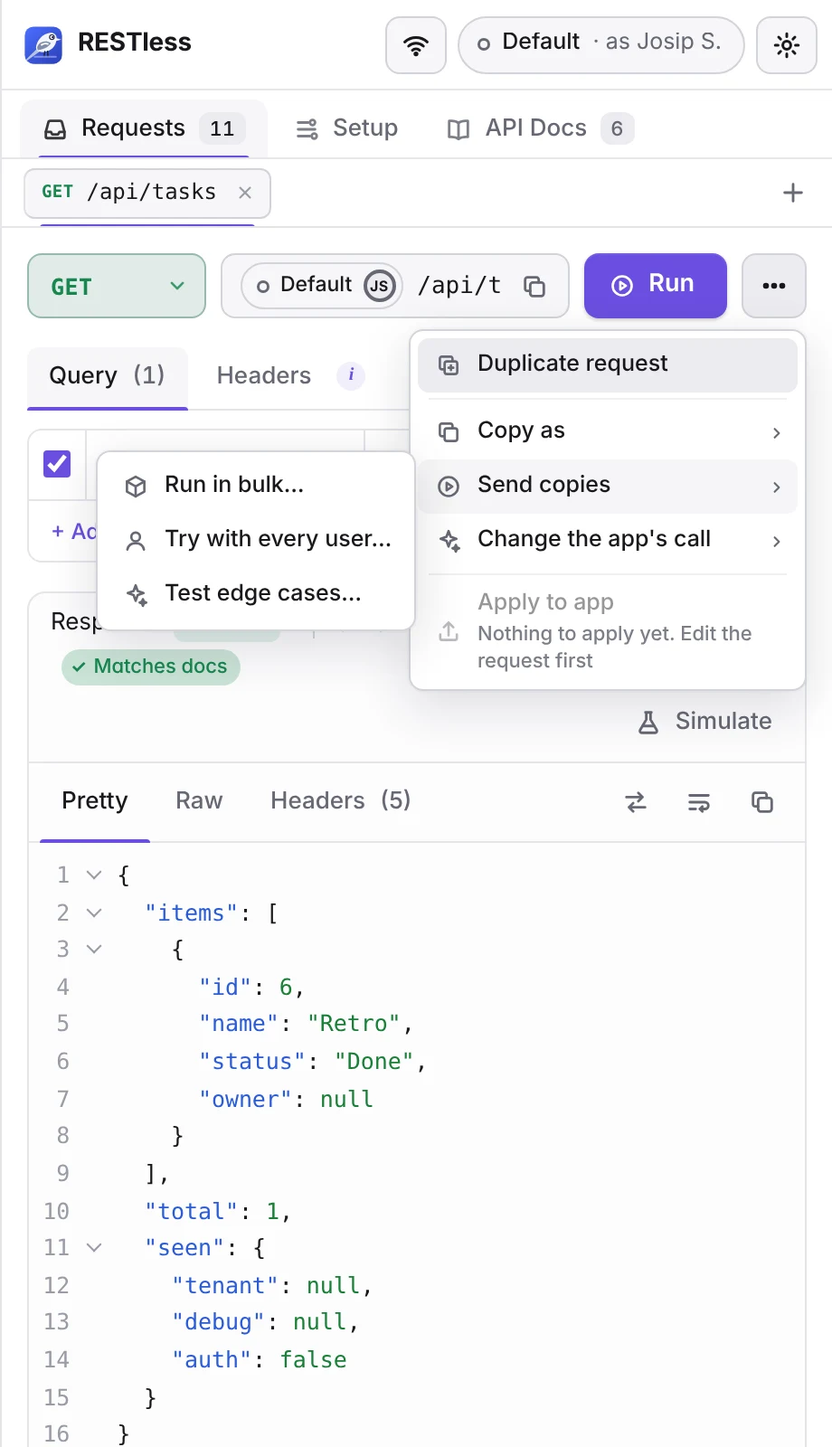
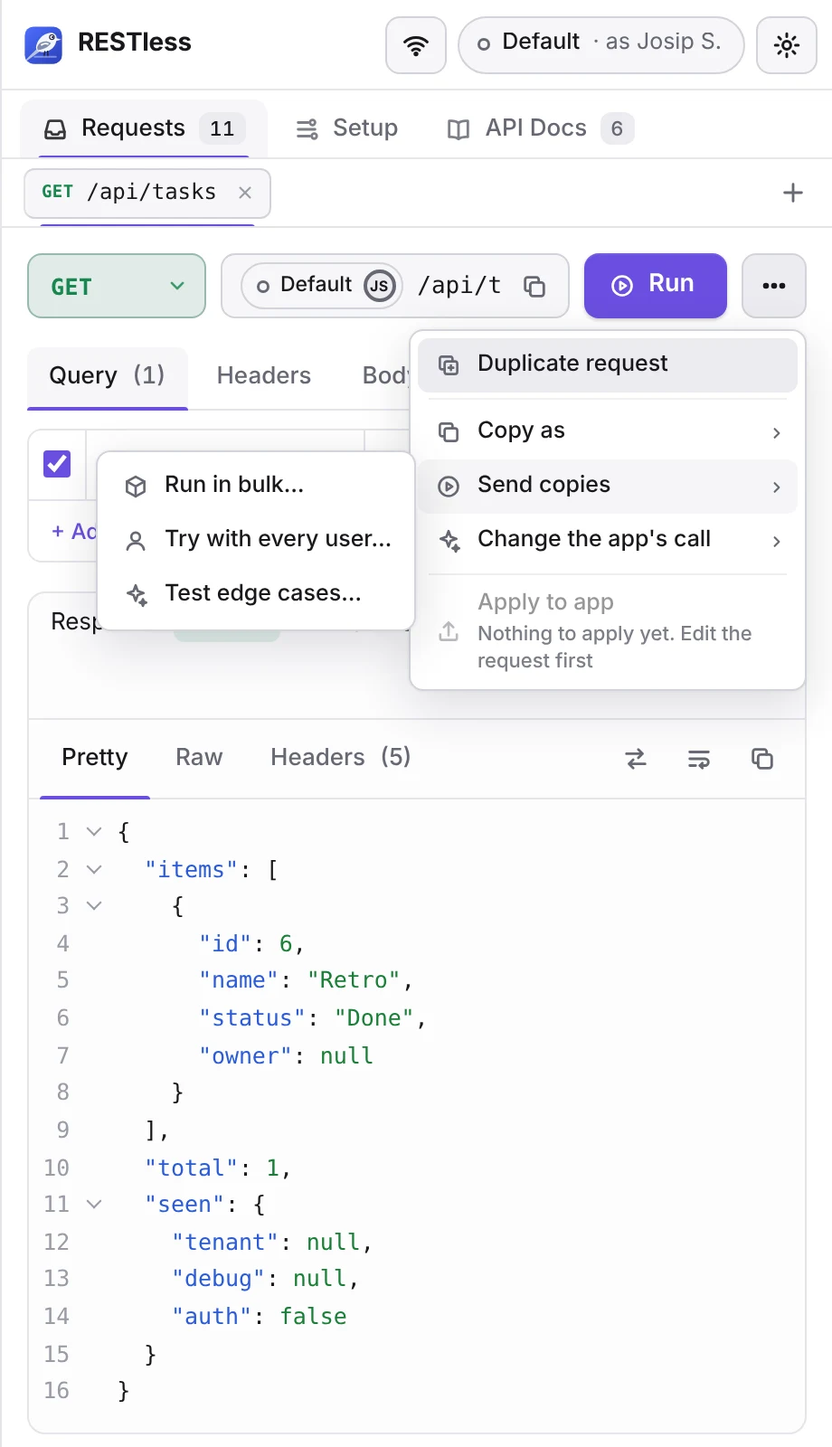
0.98.0 Quieter request screen: response line, error card, Headers note
- Headers tab: the always-on ⓘ is gone; its note is one line under the table.
- Error details: one visible button (Copy error); per-field copy shows on hover.
- Response line: dots only (no extra bars), no "now"; on narrow panels it keeps
  status and time on one row and Simulate becomes an icon.

Claude-Session: https://claude.ai/code/session_0117Ua1ahtmqBn2ueedTgDyf

diff --git a/docs/demo/index.html b/docs/demo/index.html
@@ -5016,6 +5016,19 @@
     .editbar .splitbtn > .newwrap > button.split-more, .editbar .splitbtn > .newwrap > button.split-more:hover { background: var(--accent-solid, var(--accent)); color: var(--on-accent, #fff); border: 0; border-left: 1px solid color-mix(in srgb, var(--on-accent, #fff) 30%, transparent); }
     .editbar .splitbtn > .newwrap > button.split-more:hover { filter: brightness(1.08); }
     .multimenu .msec[hidden] { display: none; }
+    /* response line: dots only, no bars */
+    .lowinfo .rq-m { padding-left: 0; border-left: 0; }
+    .hdr-note { margin: 8px 2px 0; font-size: 11.5px; color: var(--faint); line-height: 1.45; }
+    button.ibtn.hcopy { width: 24px; height: 24px; padding: 0; display: inline-grid; place-items: center; flex: none; opacity: 0; transition: opacity .1s; }
+    button.ibtn.hcopy svg { width: 13px; height: 13px; }
+    :hover > button.ibtn.hcopy, :focus-within > button.ibtn.hcopy, button.ibtn.hcopy:focus-visible { opacity: 1; }
+    @container rlmain (max-width: 420px) {
+      .lowinfo .fact + .fact + .fact { display: none; }
+      .lowhead .lowinfo { flex-wrap: nowrap; }
+    }
+    @container rlmain (max-width: 330px) {
+      .lowhead .simbtn .rvlabel { display: none; }
+    }
   `;
 
   // ---------- helpers
@@ -6983,12 +6996,14 @@
     return Object.entries(errors).slice(0, 100).map(([k, v]) => [k, Array.isArray(v) ? v.map((x) => (typeof x === 'string' ? x : JSON.stringify(x))) : [typeof v === 'string' ? v : JSON.stringify(v)]]);
   }
 
-  function copyChip(value, label = 'Copy') {
-    const b = h('button', { type: 'button', class: 'btn-sm', title: `Copy ${value}`, onclick: async (e) => {
+  // Copy icon for one value: shows on hover of its row (like the JSON line copy), so an error card has one visible Copy.
+  function copyChip(value) {
+    const b = h('button', { type: 'button', class: 'ibtn hcopy', 'aria-label': 'Copy value', title: `Copy ${value}`, onclick: async (e) => {
       e.stopPropagation();
-      try { await navigator.clipboard.writeText(String(value)); b.textContent = 'Copied'; } catch { b.textContent = 'Failed'; }
-      setTimeout(() => { b.textContent = label; }, 1200);
-    } }, label);
+      try { await navigator.clipboard.writeText(String(value)); setHTML(b, ICONS.check); b.title = 'Copied'; } catch { b.title = 'Copy failed'; }
+      setTimeout(() => { setHTML(b, ICONS.copy); b.title = `Copy ${value}`; }, 1200);
+    } });
+    setHTML(b, ICONS.copy);
     return b;
   }
 
@@ -8323,10 +8338,7 @@
         return h('button', { type: 'button', role: 'tab', 'aria-selected': String(d.tab === id), class: `tab${d.tab === id ? ' on' : ''}`, onclick: () => { d.tab = id; drawTabs(); drawPane(); drawBar(); } },
           label, n ? h('span', { class: 'tcount' }, `(${n})`) : null,
           id === 'body' && hasBody() && bodyText() != null ? h('span', { class: 'dot', title: 'This request has a body' }) : null,
-          id === 'headers' ? (() => {
-            const t = `${d.headersNote ? `${d.headersNote}\n\n` : ''}Only headers the app sets are shown. Cookies the browser adds itself can't be seen or changed here.`;
-            return h('span', { class: 'docind info', role: 'img', 'aria-label': t, title: t }, 'i');
-          })() : null);
+          null);
       }), h('span', { class: 'hspace' }), tabTools);
       drawLowerHead();
     }
@@ -8351,13 +8363,11 @@
       const isRun = !!(r && d.copy && r === d.copy);
       const ms = isRun ? r.ms : entry.durationMs;
       const size = isRun ? new Blob([r.text || '']).size : entry.responseSize;
-      const at = isRun ? (r.at || d.copyAt) : entry.startedAt;
       const sep = () => h('span', { class: 'sdot' }, '·');
       const facts = [
         r && r.status != null ? h('span', { class: `sb ${statusTone(r.status)}`, title: prob?.title || STATUS_LABEL[r.status] || '' }, statusText(r.status)) : null,
         ms != null && r ? h('span', { class: 'rq-m', title: isRun ? 'Time of your Run' : 'Time the app\'s call took' }, fmtDur(ms)) : null,
         size && r ? h('span', { class: 'rq-m', title: isRun ? 'Size of your Run\'s response' : 'Size of the response' }, fmtSize(size)) : null,
-        at && r ? h('span', { class: 'rq-m faint', title: new Date(at).toLocaleString() }, fmtAgo(at)) : null,
       ].filter(Boolean);
       // Entry to the Simulation card, when it's closed (it's always open while a simulation is set up).
       const simBtn = d.lower !== 'simulate' && !entry.manual && !entry.paused ? (() => {
@@ -8634,7 +8644,8 @@
                 copyBtn('copy', 'Copy value', () => p[1]),
               ],
             }),
-            warn);
+            warn,
+            h('p', { class: 'hdr-note' }, d.headersNote ? `${d.headersNote} ` : '', 'Only headers the app sets are shown. Cookies the browser adds can\'t be seen or changed here.'));
         }
         checkNames();
       };

diff --git a/ui.js b/ui.js
@@ -3164,6 +3164,19 @@
     .editbar .splitbtn > .newwrap > button.split-more, .editbar .splitbtn > .newwrap > button.split-more:hover { background: var(--accent-solid, var(--accent)); color: var(--on-accent, #fff); border: 0; border-left: 1px solid color-mix(in srgb, var(--on-accent, #fff) 30%, transparent); }
     .editbar .splitbtn > .newwrap > button.split-more:hover { filter: brightness(1.08); }
     .multimenu .msec[hidden] { display: none; }
+    /* response line: dots only, no bars */
+    .lowinfo .rq-m { padding-left: 0; border-left: 0; }
+    .hdr-note { margin: 8px 2px 0; font-size: 11.5px; color: var(--faint); line-height: 1.45; }
+    button.ibtn.hcopy { width: 24px; height: 24px; padding: 0; display: inline-grid; place-items: center; flex: none; opacity: 0; transition: opacity .1s; }
+    button.ibtn.hcopy svg { width: 13px; height: 13px; }
+    :hover > button.ibtn.hcopy, :focus-within > button.ibtn.hcopy, button.ibtn.hcopy:focus-visible { opacity: 1; }
+    @container rlmain (max-width: 420px) {
+      .lowinfo .fact + .fact + .fact { display: none; }
+      .lowhead .lowinfo { flex-wrap: nowrap; }
+    }
+    @container rlmain (max-width: 330px) {
+      .lowhead .simbtn .rvlabel { display: none; }
+    }
   `;
 
   // ---------- helpers
@@ -5131,12 +5144,14 @@
     return Object.entries(errors).slice(0, 100).map(([k, v]) => [k, Array.isArray(v) ? v.map((x) => (typeof x === 'string' ? x : JSON.stringify(x))) : [typeof v === 'string' ? v : JSON.stringify(v)]]);
   }
 
-  function copyChip(value, label = 'Copy') {
-    const b = h('button', { type: 'button', class: 'btn-sm', title: `Copy ${value}`, onclick: async (e) => {
+  // Copy icon for one value: shows on hover of its row (like the JSON line copy), so an error card has one visible Copy.
+  function copyChip(value) {
+    const b = h('button', { type: 'button', class: 'ibtn hcopy', 'aria-label': 'Copy value', title: `Copy ${value}`, onclick: async (e) => {
       e.stopPropagation();
-      try { await navigator.clipboard.writeText(String(value)); b.textContent = 'Copied'; } catch { b.textContent = 'Failed'; }
-      setTimeout(() => { b.textContent = label; }, 1200);
-    } }, label);
+      try { await navigator.clipboard.writeText(String(value)); setHTML(b, ICONS.check); b.title = 'Copied'; } catch { b.title = 'Copy failed'; }
+      setTimeout(() => { setHTML(b, ICONS.copy); b.title = `Copy ${value}`; }, 1200);
+    } });
+    setHTML(b, ICONS.copy);
     return b;
   }
 
@@ -6471,10 +6486,7 @@
         return h('button', { type: 'button', role: 'tab', 'aria-selected': String(d.tab === id), class: `tab${d.tab === id ? ' on' : ''}`, onclick: () => { d.tab = id; drawTabs(); drawPane(); drawBar(); } },
           label, n ? h('span', { class: 'tcount' }, `(${n})`) : null,
           id === 'body' && hasBody() && bodyText() != null ? h('span', { class: 'dot', title: 'This request has a body' }) : null,
-          id === 'headers' ? (() => {
-            const t = `${d.headersNote ? `${d.headersNote}\n\n` : ''}Only headers the app sets are shown. Cookies the browser adds itself can't be seen or changed here.`;
-            return h('span', { class: 'docind info', role: 'img', 'aria-label': t, title: t }, 'i');
-          })() : null);
+          null);
       }), h('span', { class: 'hspace' }), tabTools);
       drawLowerHead();
     }
@@ -6499,13 +6511,11 @@
       const isRun = !!(r && d.copy && r === d.copy);
       const ms = isRun ? r.ms : entry.durationMs;
       const size = isRun ? new Blob([r.text || '']).size : entry.responseSize;
-      const at = isRun ? (r.at || d.copyAt) : entry.startedAt;
       const sep = () => h('span', { class: 'sdot' }, '·');
       const facts = [
         r && r.status != null ? h('span', { class: `sb ${statusTone(r.status)}`, title: prob?.title || STATUS_LABEL[r.status] || '' }, statusText(r.status)) : null,
         ms != null && r ? h('span', { class: 'rq-m', title: isRun ? 'Time of your Run' : 'Time the app\'s call took' }, fmtDur(ms)) : null,
         size && r ? h('span', { class: 'rq-m', title: isRun ? 'Size of your Run\'s response' : 'Size of the response' }, fmtSize(size)) : null,
-        at && r ? h('span', { class: 'rq-m faint', title: new Date(at).toLocaleString() }, fmtAgo(at)) : null,
       ].filter(Boolean);
       // Entry to the Simulation card, when it's closed (it's always open while a simulation is set up).
       const simBtn = d.lower !== 'simulate' && !entry.manual && !entry.paused ? (() => {
@@ -6782,7 +6792,8 @@
                 copyBtn('copy', 'Copy value', () => p[1]),
               ],
             }),
-            warn);
+            warn,
+            h('p', { class: 'hdr-note' }, d.headersNote ? `${d.headersNote} ` : '', 'Only headers the app sets are shown. Cookies the browser adds can\'t be seen or changed here.'));
         }
         checkNames();
       };

diff --git a/docs/request-screen.html b/docs/request-screen.html
@@ -5,7 +5,7 @@
 <script>try{const t=localStorage.getItem('rl-theme');if(t)document.documentElement.classList.add(t)}catch(e){}</script>
 </head><body>
 <header class="top"><button class="tbtn menu" id="mbtn" aria-expanded="false" aria-controls="side" aria-label="Pages">☰</button>
-<a class="brand" href="index.html"><img src="img/logo.png" alt=""><b>RESTless</b></a><span class="ver">v0.97.0</span><span class="sp"></span>
+<a class="brand" href="index.html"><img src="img/logo.png" alt=""><b>RESTless</b></a><span class="ver">v0.98.0</span><span class="sp"></span>
 <a class="tlink" href="demo/index.html">Live demo</a><a class="tlink" href="https://github.com/varnica95/restless">GitHub</a>
 <button class="tbtn" id="theme" aria-label="Switch between light and dark" title="Light / dark"><svg width="16" height="16" viewBox="0 0 16 16" aria-hidden="true"><circle cx="8" cy="8" r="6.2" fill="none" stroke="currentColor" stroke-width="1.5"/><path d="M8 1.8a6.2 6.2 0 0 1 0 12.4z" fill="currentColor"/></svg></button></header>
 <div class="wrap"><nav class="side" id="side" aria-label="Pages"><ul><li><a href="index.html">Overview</a></li><li><a href="getting-started.html">Getting started</a></li><li><a href="requests.html">Requests</a></li><li><a href="request-screen.html" class=on aria-current=page>The request screen</a></li><li><a href="mocks.html">Mock endpoints</a></li><li><a href="api-docs.html">API docs</a></li><li><a href="environments.html">Environments &amp; users</a></li><li><a href="variables.html">Variables</a></li><li><a href="testing-tools.html">Testing tools</a></li><li><a href="settings.html">Settings</a></li><li><a href="how-it-works.html">How it works</a></li><li><a href="demo/index.html">Live demo</a></li></ul></nav>
@@ -26,6 +26,6 @@
 <h2 id="pause-a-call">Pause a call</h2>
 <p><strong>⋯ → Change the app's call → Break on next call.</strong> When the app makes it, the call waits for you: <strong>Continue</strong> (with your edits), <strong>Send unchanged</strong> or <strong>Drop</strong>.</p>
 <h2 id="also-in">Also in ⋯</h2>
-<p><strong>Copy as</strong> cURL, fetch or TypeScript · <strong>Duplicate</strong> · <strong>Run in bulk</strong> · <strong>Try with every user</strong> · <strong>Test edge cases</strong></p><nav class="pn" aria-label="Previous and next"><a class="prev" href="requests.html"><span>Previous</span>Requests</a><a class="next" href="mocks.html"><span>Next</span>Mock endpoints</a></nav><footer>RESTless v0.97.0 · <a href="https://github.com/varnica95/restless">GitHub</a></footer></main>
+<p><strong>Copy as</strong> cURL, fetch or TypeScript · <strong>Duplicate</strong> · <strong>Run in bulk</strong> · <strong>Try with every user</strong> · <strong>Test edge cases</strong></p><nav class="pn" aria-label="Previous and next"><a class="prev" href="requests.html"><span>Previous</span>Requests</a><a class="next" href="mocks.html"><span>Next</span>Mock endpoints</a></nav><footer>RESTless v0.98.0 · <a href="https://github.com/varnica95/restless">GitHub</a></footer></main>
 <aside class="toc" aria-label="On this page"><b>On this page</b><ul><li><a href="#edit-and-run">Edit and run</a></li><li><a href="#compare">Compare</a></li><li><a href="#simulate">Simulate</a></li><li><a href="#pause-a-call">Pause a call</a></li><li><a href="#also-in">Also in ⋯</a></li></ul></aside></div>
 <script src="site.js"></script></body></html>

diff --git a/docs/api-docs.html b/docs/api-docs.html
@@ -5,7 +5,7 @@
 <script>try{const t=localStorage.getItem('rl-theme');if(t)document.documentElement.classList.add(t)}catch(e){}</script>
 </head><body>
 <header class="top"><button class="tbtn menu" id="mbtn" aria-expanded="false" aria-controls="side" aria-label="Pages">☰</button>
-<a class="brand" href="index.html"><img src="img/logo.png" alt=""><b>RESTless</b></a><span class="ver">v0.97.0</span><span class="sp"></span>
+<a class="brand" href="index.html"><img src="img/logo.png" alt=""><b>RESTless</b></a><span class="ver">v0.98.0</span><span class="sp"></span>
 <a class="tlink" href="demo/index.html">Live demo</a><a class="tlink" href="https://github.com/varnica95/restless">GitHub</a>
 <button class="tbtn" id="theme" aria-label="Switch between light and dark" title="Light / dark"><svg width="16" height="16" viewBox="0 0 16 16" aria-hidden="true"><circle cx="8" cy="8" r="6.2" fill="none" stroke="currentColor" stroke-width="1.5"/><path d="M8 1.8a6.2 6.2 0 0 1 0 12.4z" fill="currentColor"/></svg></button></header>
 <div class="wrap"><nav class="side" id="side" aria-label="Pages"><ul><li><a href="index.html">Overview</a></li><li><a href="getting-started.html">Getting started</a></li><li><a href="requests.html">Requests</a></li><li><a href="request-screen.html">The request screen</a></li><li><a href="mocks.html">Mock endpoints</a></li><li><a href="api-docs.html" class=on aria-current=page>API docs</a></li><li><a href="environments.html">Environments &amp; users</a></li><li><a href="variables.html">Variables</a></li><li><a href="testing-tools.html">Testing tools</a></li><li><a href="settings.html">Settings</a></li><li><a href="how-it-works.html">How it works</a></li><li><a href="demo/index.html">Live demo</a></li></ul></nav>
@@ -21,6 +21,6 @@
 <li>Each endpoint shows whether the app has called it. Filter by <strong>called</strong> or <strong>not called</strong> to find what’s unused.</li>
 <li>When the docs at your URL change, a note says <strong>a new version is available</strong>. Press <strong>Refresh</strong> to load it.</li>
 <li><strong>⋯ → Reload</strong> shows <strong>What changed</strong>: new, removed and changed endpoints, with the changes that can break your app marked.</li>
-</ul><nav class="pn" aria-label="Previous and next"><a class="prev" href="mocks.html"><span>Previous</span>Mock endpoints</a><a class="next" href="environments.html"><span>Next</span>Environments &amp; users</a></nav><footer>RESTless v0.97.0 · <a href="https://github.com/varnica95/restless">GitHub</a></footer></main>
+</ul><nav class="pn" aria-label="Previous and next"><a class="prev" href="mocks.html"><span>Previous</span>Mock endpoints</a><a class="next" href="environments.html"><span>Next</span>Environments &amp; users</a></nav><footer>RESTless v0.98.0 · <a href="https://github.com/varnica95/restless">GitHub</a></footer></main>
 <aside class="toc" aria-label="On this page"><b>On this page</b><ul><li><a href="#load-your-docs">Load your docs</a></li><li><a href="#try-an-endpoint">Try an endpoint</a></li><li><a href="#check-against-the-docs">Check against the docs</a></li></ul></aside></div>
 <script src="site.js"></script></body></html>

diff --git a/docs/settings.html b/docs/settings.html
@@ -5,7 +5,7 @@
 <script>try{const t=localStorage.getItem('rl-theme');if(t)document.documentElement.classList.add(t)}catch(e){}</script>
 </head><body>
 <header class="top"><button class="tbtn menu" id="mbtn" aria-expanded="false" aria-controls="side" aria-label="Pages">☰</button>
-<a class="brand" href="index.html"><img src="img/logo.png" alt=""><b>RESTless</b></a><span class="ver">v0.97.0</span><span class="sp"></span>
+<a class="brand" href="index.html"><img src="img/logo.png" alt=""><b>RESTless</b></a><span class="ver">v0.98.0</span><span class="sp"></span>
 <a class="tlink" href="demo/index.html">Live demo</a><a class="tlink" href="https://github.com/varnica95/restless">GitHub</a>
 <button class="tbtn" id="theme" aria-label="Switch between light and dark" title="Light / dark"><svg width="16" height="16" viewBox="0 0 16 16" aria-hidden="true"><circle cx="8" cy="8" r="6.2" fill="none" stroke="currentColor" stroke-width="1.5"/><path d="M8 1.8a6.2 6.2 0 0 1 0 12.4z" fill="currentColor"/></svg></button></header>
 <div class="wrap"><nav class="side" id="side" aria-label="Pages"><ul><li><a href="index.html">Overview</a></li><li><a href="getting-started.html">Getting started</a></li><li><a href="requests.html">Requests</a></li><li><a href="request-screen.html">The request screen</a></li><li><a href="mocks.html">Mock endpoints</a></li><li><a href="api-docs.html">API docs</a></li><li><a href="environments.html">Environments &amp; users</a></li><li><a href="variables.html">Variables</a></li><li><a href="testing-tools.html">Testing tools</a></li><li><a href="settings.html" class=on aria-current=page>Settings</a></li><li><a href="how-it-works.html">How it works</a></li><li><a href="demo/index.html">Live demo</a></li></ul></nav>
@@ -19,6 +19,6 @@
 <p><strong>Export…</strong> saves your environments and users, rules, mocks, API docs and pinned endpoints as one JSON file. <strong>Import…</strong> brings them back here or in another browser, and can be undone.</p>
 <blockquote>
 <p><strong>Careful:</strong> tokens are in the file when <strong>Include tokens</strong> is on. Share it only with people who should have them.</p>
-</blockquote><nav class="pn" aria-label="Previous and next"><a class="prev" href="testing-tools.html"><span>Previous</span>Testing tools</a><a class="next" href="how-it-works.html"><span>Next</span>How it works</a></nav><footer>RESTless v0.97.0 · <a href="https://github.com/varnica95/restless">GitHub</a></footer></main>
+</blockquote><nav class="pn" aria-label="Previous and next"><a class="prev" href="testing-tools.html"><span>Previous</span>Testing tools</a><a class="next" href="how-it-works.html"><span>Next</span>How it works</a></nav><footer>RESTless v0.98.0 · <a href="https://github.com/varnica95/restless">GitHub</a></footer></main>
 <aside class="toc" aria-label="On this page"><b>On this page</b><ul><li><a href="#look-and-feel">Look and feel</a></li><li><a href="#shortcut">Shortcut</a></li><li><a href="#import-export">Import &amp; export</a></li></ul></aside></div>
 <script src="site.js"></script></body></html>

diff --git a/docs/getting-started.html b/docs/getting-started.html
@@ -5,7 +5,7 @@
 <script>try{const t=localStorage.getItem('rl-theme');if(t)document.documentElement.classList.add(t)}catch(e){}</script>
 </head><body>
 <header class="top"><button class="tbtn menu" id="mbtn" aria-expanded="false" aria-controls="side" aria-label="Pages">☰</button>
-<a class="brand" href="index.html"><img src="img/logo.png" alt=""><b>RESTless</b></a><span class="ver">v0.97.0</span><span class="sp"></span>
+<a class="brand" href="index.html"><img src="img/logo.png" alt=""><b>RESTless</b></a><span class="ver">v0.98.0</span><span class="sp"></span>
 <a class="tlink" href="demo/index.html">Live demo</a><a class="tlink" href="https://github.com/varnica95/restless">GitHub</a>
 <button class="tbtn" id="theme" aria-label="Switch between light and dark" title="Light / dark"><svg width="16" height="16" viewBox="0 0 16 16" aria-hidden="true"><circle cx="8" cy="8" r="6.2" fill="none" stroke="currentColor" stroke-width="1.5"/><path d="M8 1.8a6.2 6.2 0 0 1 0 12.4z" fill="currentColor"/></svg></button></header>
 <div class="wrap"><nav class="side" id="side" aria-label="Pages"><ul><li><a href="index.html">Overview</a></li><li><a href="getting-started.html" class=on aria-current=page>Getting started</a></li><li><a href="requests.html">Requests</a></li><li><a href="request-screen.html">The request screen</a></li><li><a href="mocks.html">Mock endpoints</a></li><li><a href="api-docs.html">API docs</a></li><li><a href="environments.html">Environments &amp; users</a></li><li><a href="variables.html">Variables</a></li><li><a href="testing-tools.html">Testing tools</a></li><li><a href="settings.html">Settings</a></li><li><a href="how-it-works.html">How it works</a></li><li><a href="demo/index.html">Live demo</a></li></ul></nav>
@@ -32,6 +32,6 @@
 <p>In the header: where your requests go (<strong>Send to / Send as</strong>), the <strong>Offline</strong> switch and <strong>Settings</strong>.</p>
 <blockquote>
 <p><strong>Tip:</strong> <kbd>Ctrl</kbd>+click a button or table in your app (or right-click → <strong>Inspect API call</strong>) to jump straight to the call behind it.</p>
-</blockquote><nav class="pn" aria-label="Previous and next"><a class="prev" href="index.html"><span>Previous</span>Overview</a><a class="next" href="requests.html"><span>Next</span>Requests</a></nav><footer>RESTless v0.97.0 · <a href="https://github.com/varnica95/restless">GitHub</a></footer></main>
+</blockquote><nav class="pn" aria-label="Previous and next"><a class="prev" href="index.html"><span>Previous</span>Overview</a><a class="next" href="requests.html"><span>Next</span>Requests</a></nav><footer>RESTless v0.98.0 · <a href="https://github.com/varnica95/restless">GitHub</a></footer></main>
 <aside class="toc" aria-label="On this page"><b>On this page</b><ul><li><a href="#install">Install</a></li><li><a href="#open-the-panel">Open the panel</a></li><li><a href="#turn-on-recording">Turn on recording</a></li><li><a href="#find-your-way">Find your way</a></li></ul></aside></div>
 <script src="site.js"></script></body></html>

diff --git a/docs/variables.html b/docs/variables.html
@@ -5,7 +5,7 @@
 <script>try{const t=localStorage.getItem('rl-theme');if(t)document.documentElement.classList.add(t)}catch(e){}</script>
 </head><body>
 <header class="top"><button class="tbtn menu" id="mbtn" aria-expanded="false" aria-controls="side" aria-label="Pages">☰</button>
-<a class="brand" href="index.html"><img src="img/logo.png" alt=""><b>RESTless</b></a><span class="ver">v0.97.0</span><span class="sp"></span>
+<a class="brand" href="index.html"><img src="img/logo.png" alt=""><b>RESTless</b></a><span class="ver">v0.98.0</span><span class="sp"></span>
 <a class="tlink" href="demo/index.html">Live demo</a><a class="tlink" href="https://github.com/varnica95/restless">GitHub</a>
 <button class="tbtn" id="theme" aria-label="Switch between light and dark" title="Light / dark"><svg width="16" height="16" viewBox="0 0 16 16" aria-hidden="true"><circle cx="8" cy="8" r="6.2" fill="none" stroke="currentColor" stroke-width="1.5"/><path d="M8 1.8a6.2 6.2 0 0 1 0 12.4z" fill="currentColor"/></svg></button></header>
 <div class="wrap"><nav class="side" id="side" aria-label="Pages"><ul><li><a href="index.html">Overview</a></li><li><a href="getting-started.html">Getting started</a></li><li><a href="requests.html">Requests</a></li><li><a href="request-screen.html">The request screen</a></li><li><a href="mocks.html">Mock endpoints</a></li><li><a href="api-docs.html">API docs</a></li><li><a href="environments.html">Environments &amp; users</a></li><li><a href="variables.html" class=on aria-current=page>Variables</a></li><li><a href="testing-tools.html">Testing tools</a></li><li><a href="settings.html">Settings</a></li><li><a href="how-it-works.html">How it works</a></li><li><a href="demo/index.html">Live demo</a></li></ul></nav>
@@ -29,6 +29,6 @@
 <p>With <strong>Update from every response</strong> on, the variable follows that endpoint: your runs and the app's own calls keep it current.</p>
 <blockquote>
 <p><strong>Good to know:</strong> variables are saved for this site and included in <strong>Settings → Export</strong>.</p>
-</blockquote><nav class="pn" aria-label="Previous and next"><a class="prev" href="environments.html"><span>Previous</span>Environments &amp; users</a><a class="next" href="testing-tools.html"><span>Next</span>Testing tools</a></nav><footer>RESTless v0.97.0 · <a href="https://github.com/varnica95/restless">GitHub</a></footer></main>
+</blockquote><nav class="pn" aria-label="Previous and next"><a class="prev" href="environments.html"><span>Previous</span>Environments &amp; users</a><a class="next" href="testing-tools.html"><span>Next</span>Testing tools</a></nav><footer>RESTless v0.98.0 · <a href="https://github.com/varnica95/restless">GitHub</a></footer></main>
 <aside class="toc" aria-label="On this page"><b>On this page</b><ul><li><a href="#use-a-variable">Use a variable</a></li><li><a href="#manage-them">Manage them</a></li><li><a href="#chain-requests">Chain requests</a></li></ul></aside></div>
 <script src="site.js"></script></body></html>

diff --git a/docs/how-it-works.html b/docs/how-it-works.html
@@ -5,7 +5,7 @@
 <script>try{const t=localStorage.getItem('rl-theme');if(t)document.documentElement.classList.add(t)}catch(e){}</script>
 </head><body>
 <header class="top"><button class="tbtn menu" id="mbtn" aria-expanded="false" aria-controls="side" aria-label="Pages">☰</button>
-<a class="brand" href="index.html"><img src="img/logo.png" alt=""><b>RESTless</b></a><span class="ver">v0.97.0</span><span class="sp"></span>
+<a class="brand" href="index.html"><img src="img/logo.png" alt=""><b>RESTless</b></a><span class="ver">v0.98.0</span><span class="sp"></span>
 <a class="tlink" href="demo/index.html">Live demo</a><a class="tlink" href="https://github.com/varnica95/restless">GitHub</a>
 <button class="tbtn" id="theme" aria-label="Switch between light and dark" title="Light / dark"><svg width="16" height="16" viewBox="0 0 16 16" aria-hidden="true"><circle cx="8" cy="8" r="6.2" fill="none" stroke="currentColor" stroke-width="1.5"/><path d="M8 1.8a6.2 6.2 0 0 1 0 12.4z" fill="currentColor"/></svg></button></header>
 <div class="wrap"><nav class="side" id="side" aria-label="Pages"><ul><li><a href="index.html">Overview</a></li><li><a href="getting-started.html">Getting started</a></li><li><a href="requests.html">Requests</a></li><li><a href="request-screen.html">The request screen</a></li><li><a href="mocks.html">Mock endpoints</a></li><li><a href="api-docs.html">API docs</a></li><li><a href="environments.html">Environments &amp; users</a></li><li><a href="variables.html">Variables</a></li><li><a href="testing-tools.html">Testing tools</a></li><li><a href="settings.html">Settings</a></li><li><a href="how-it-works.html" class=on aria-current=page>How it works</a></li><li><a href="demo/index.html">Live demo</a></li></ul></nav>
@@ -19,6 +19,6 @@
 <li><strong>Apply to app</strong> repeats the click that made the call, so that button must have been clicked once on the page. Otherwise it reloads the page.</li>
 <li>Another server must allow calls from your app’s page (CORS).</li>
 <li>Mocks and simulations only apply in your browser while RESTless is on.</li>
-</ul><nav class="pn" aria-label="Previous and next"><a class="prev" href="settings.html"><span>Previous</span>Settings</a><a class="next" href="demo/index.html"><span>Next</span>Live demo</a></nav><footer>RESTless v0.97.0 · <a href="https://github.com/varnica95/restless">GitHub</a></footer></main>
+</ul><nav class="pn" aria-label="Previous and next"><a class="prev" href="settings.html"><span>Previous</span>Settings</a><a class="next" href="demo/index.html"><span>Next</span>Live demo</a></nav><footer>RESTless v0.98.0 · <a href="https://github.com/varnica95/restless">GitHub</a></footer></main>
 <aside class="toc" aria-label="On this page"><b>On this page</b><ul><li><a href="#in-your-browser-only">In your browser only</a></li><li><a href="#what-it-stores">What it stores</a></li><li><a href="#limits">Limits</a></li></ul></aside></div>
 <script src="site.js"></script></body></html>

diff --git a/docs/mocks.html b/docs/mocks.html
@@ -5,7 +5,7 @@
 <script>try{const t=localStorage.getItem('rl-theme');if(t)document.documentElement.classList.add(t)}catch(e){}</script>
 </head><body>
 <header class="top"><button class="tbtn menu" id="mbtn" aria-expanded="false" aria-controls="side" aria-label="Pages">☰</button>
-<a class="brand" href="index.html"><img src="img/logo.png" alt=""><b>RESTless</b></a><span class="ver">v0.97.0</span><span class="sp"></span>
+<a class="brand" href="index.html"><img src="img/logo.png" alt=""><b>RESTless</b></a><span class="ver">v0.98.0</span><span class="sp"></span>
 <a class="tlink" href="demo/index.html">Live demo</a><a class="tlink" href="https://github.com/varnica95/restless">GitHub</a>
 <button class="tbtn" id="theme" aria-label="Switch between light and dark" title="Light / dark"><svg width="16" height="16" viewBox="0 0 16 16" aria-hidden="true"><circle cx="8" cy="8" r="6.2" fill="none" stroke="currentColor" stroke-width="1.5"/><path d="M8 1.8a6.2 6.2 0 0 1 0 12.4z" fill="currentColor"/></svg></button></header>
 <div class="wrap"><nav class="side" id="side" aria-label="Pages"><ul><li><a href="index.html">Overview</a></li><li><a href="getting-started.html">Getting started</a></li><li><a href="requests.html">Requests</a></li><li><a href="request-screen.html">The request screen</a></li><li><a href="mocks.html" class=on aria-current=page>Mock endpoints</a></li><li><a href="api-docs.html">API docs</a></li><li><a href="environments.html">Environments &amp; users</a></li><li><a href="variables.html">Variables</a></li><li><a href="testing-tools.html">Testing tools</a></li><li><a href="settings.html">Settings</a></li><li><a href="how-it-works.html">How it works</a></li><li><a href="demo/index.html">Live demo</a></li></ul></nav>
@@ -25,6 +25,6 @@
 <p>Calls answered by a mock show a <strong>Changed</strong> tag. Click it to edit the mock.</p>
 <blockquote>
 <p><strong>Good to know:</strong> mocks work in your browser while RESTless is on. Other browsers, servers and tools like Postman still reach the real API.</p>
-</blockquote><nav class="pn" aria-label="Previous and next"><a class="prev" href="request-screen.html"><span>Previous</span>The request screen</a><a class="next" href="api-docs.html"><span>Next</span>API docs</a></nav><footer>RESTless v0.97.0 · <a href="https://github.com/varnica95/restless">GitHub</a></footer></main>
+</blockquote><nav class="pn" aria-label="Previous and next"><a class="prev" href="request-screen.html"><span>Previous</span>The request screen</a><a class="next" href="api-docs.html"><span>Next</span>API docs</a></nav><footer>RESTless v0.98.0 · <a href="https://github.com/varnica95/restless">GitHub</a></footer></main>
 <aside class="toc" aria-label="On this page"><b>On this page</b><ul><li><a href="#create-a-mock">Create a mock</a></li><li><a href="#use-path-values">Use path values</a></li><li><a href="#manage-mocks">Manage mocks</a></li></ul></aside></div>
 <script src="site.js"></script></body></html>

diff --git a/docs/environments.html b/docs/environments.html
@@ -5,7 +5,7 @@
 <script>try{const t=localStorage.getItem('rl-theme');if(t)document.documentElement.classList.add(t)}catch(e){}</script>
 </head><body>
 <header class="top"><button class="tbtn menu" id="mbtn" aria-expanded="false" aria-controls="side" aria-label="Pages">☰</button>
-<a class="brand" href="index.html"><img src="img/logo.png" alt=""><b>RESTless</b></a><span class="ver">v0.97.0</span><span class="sp"></span>
+<a class="brand" href="index.html"><img src="img/logo.png" alt=""><b>RESTless</b></a><span class="ver">v0.98.0</span><span class="sp"></span>
 <a class="tlink" href="demo/index.html">Live demo</a><a class="tlink" href="https://github.com/varnica95/restless">GitHub</a>
 <button class="tbtn" id="theme" aria-label="Switch between light and dark" title="Light / dark"><svg width="16" height="16" viewBox="0 0 16 16" aria-hidden="true"><circle cx="8" cy="8" r="6.2" fill="none" stroke="currentColor" stroke-width="1.5"/><path d="M8 1.8a6.2 6.2 0 0 1 0 12.4z" fill="currentColor"/></svg></button></header>
 <div class="wrap"><nav class="side" id="side" aria-label="Pages"><ul><li><a href="index.html">Overview</a></li><li><a href="getting-started.html">Getting started</a></li><li><a href="requests.html">Requests</a></li><li><a href="request-screen.html">The request screen</a></li><li><a href="mocks.html">Mock endpoints</a></li><li><a href="api-docs.html">API docs</a></li><li><a href="environments.html" class=on aria-current=page>Environments &amp; users</a></li><li><a href="variables.html">Variables</a></li><li><a href="testing-tools.html">Testing tools</a></li><li><a href="settings.html">Settings</a></li><li><a href="how-it-works.html">How it works</a></li><li><a href="demo/index.html">Live demo</a></li></ul></nav>
@@ -22,6 +22,6 @@
 <p>Drag a user onto another environment, or use <strong>⋯ → Move to / Copy to</strong>.</p>
 <blockquote>
 <p><strong>Good to know:</strong> a user’s token only goes to its own environment, never anywhere else.</p>
-</blockquote><nav class="pn" aria-label="Previous and next"><a class="prev" href="api-docs.html"><span>Previous</span>API docs</a><a class="next" href="variables.html"><span>Next</span>Variables</a></nav><footer>RESTless v0.97.0 · <a href="https://github.com/varnica95/restless">GitHub</a></footer></main>
+</blockquote><nav class="pn" aria-label="Previous and next"><a class="prev" href="api-docs.html"><span>Previous</span>API docs</a><a class="next" href="variables.html"><span>Next</span>Variables</a></nav><footer>RESTless v0.98.0 · <a href="https://github.com/varnica95/restless">GitHub</a></footer></main>
 <aside class="toc" aria-label="On this page"><b>On this page</b><ul><li><a href="#pick-where-and-who">Pick where and who</a></li><li><a href="#add-an-environment">Add an environment</a></li><li><a href="#add-a-user">Add a user</a></li><li><a href="#move-and-copy-users">Move and copy users</a></li></ul></aside></div>
 <script src="site.js"></script></body></html>

diff --git a/docs/testing-tools.html b/docs/testing-tools.html
@@ -5,7 +5,7 @@
 <script>try{const t=localStorage.getItem('rl-theme');if(t)document.documentElement.classList.add(t)}catch(e){}</script>
 </head><body>
 <header class="top"><button class="tbtn menu" id="mbtn" aria-expanded="false" aria-controls="side" aria-label="Pages">☰</button>
-<a class="brand" href="index.html"><img src="img/logo.png" alt=""><b>RESTless</b></a><span class="ver">v0.97.0</span><span class="sp"></span>
+<a class="brand" href="index.html"><img src="img/logo.png" alt=""><b>RESTless</b></a><span class="ver">v0.98.0</span><span class="sp"></span>
 <a class="tlink" href="demo/index.html">Live demo</a><a class="tlink" href="https://github.com/varnica95/restless">GitHub</a>
 <button class="tbtn" id="theme" aria-label="Switch between light and dark" title="Light / dark"><svg width="16" height="16" viewBox="0 0 16 16" aria-hidden="true"><circle cx="8" cy="8" r="6.2" fill="none" stroke="currentColor" stroke-width="1.5"/><path d="M8 1.8a6.2 6.2 0 0 1 0 12.4z" fill="currentColor"/></svg></button></header>
 <div class="wrap"><nav class="side" id="side" aria-label="Pages"><ul><li><a href="index.html">Overview</a></li><li><a href="getting-started.html">Getting started</a></li><li><a href="requests.html">Requests</a></li><li><a href="request-screen.html">The request screen</a></li><li><a href="mocks.html">Mock endpoints</a></li><li><a href="api-docs.html">API docs</a></li><li><a href="environments.html">Environments &amp; users</a></li><li><a href="variables.html">Variables</a></li><li><a href="testing-tools.html" class=on aria-current=page>Testing tools</a></li><li><a href="settings.html">Settings</a></li><li><a href="how-it-works.html">How it works</a></li><li><a href="demo/index.html">Live demo</a></li></ul></nav>
@@ -21,6 +21,6 @@
 <li>✓ <strong>rejected</strong> (4xx): what you want.</li>
 <li>⚠ <strong>accepted</strong> (2xx): maybe missing validation.</li>
 <li>✕ <strong>crashed</strong> (5xx): a bug.</li>
-</ul><nav class="pn" aria-label="Previous and next"><a class="prev" href="variables.html"><span>Previous</span>Variables</a><a class="next" href="settings.html"><span>Next</span>Settings</a></nav><footer>RESTless v0.97.0 · <a href="https://github.com/varnica95/restless">GitHub</a></footer></main>
+</ul><nav class="pn" aria-label="Previous and next"><a class="prev" href="variables.html"><span>Previous</span>Variables</a><a class="next" href="settings.html"><span>Next</span>Settings</a></nav><footer>RESTless v0.98.0 · <a href="https://github.com/varnica95/restless">GitHub</a></footer></main>
 <aside class="toc" aria-label="On this page"><b>On this page</b><ul><li><a href="#go-offline">Go offline</a></li><li><a href="#try-with-every-user">Try with every user</a></li><li><a href="#test-edge-cases">Test edge cases</a></li></ul></aside></div>
 <script src="site.js"></script></body></html>

diff --git a/docs/requests.html b/docs/requests.html
@@ -5,7 +5,7 @@
 <script>try{const t=localStorage.getItem('rl-theme');if(t)document.documentElement.classList.add(t)}catch(e){}</script>
 </head><body>
 <header class="top"><button class="tbtn menu" id="mbtn" aria-expanded="false" aria-controls="side" aria-label="Pages">☰</button>
-<a class="brand" href="index.html"><img src="img/logo.png" alt=""><b>RESTless</b></a><span class="ver">v0.97.0</span><span class="sp"></span>
+<a class="brand" href="index.html"><img src="img/logo.png" alt=""><b>RESTless</b></a><span class="ver">v0.98.0</span><span class="sp"></span>
 <a class="tlink" href="demo/index.html">Live demo</a><a class="tlink" href="https://github.com/varnica95/restless">GitHub</a>
 <button class="tbtn" id="theme" aria-label="Switch between light and dark" title="Light / dark"><svg width="16" height="16" viewBox="0 0 16 16" aria-hidden="true"><circle cx="8" cy="8" r="6.2" fill="none" stroke="currentColor" stroke-width="1.5"/><path d="M8 1.8a6.2 6.2 0 0 1 0 12.4z" fill="currentColor"/></svg></button></header>
 <div class="wrap"><nav class="side" id="side" aria-label="Pages"><ul><li><a href="index.html">Overview</a></li><li><a href="getting-started.html">Getting started</a></li><li><a href="requests.html" class=on aria-current=page>Requests</a></li><li><a href="request-screen.html">The request screen</a></li><li><a href="mocks.html">Mock endpoints</a></li><li><a href="api-docs.html">API docs</a></li><li><a href="environments.html">Environments &amp; users</a></li><li><a href="variables.html">Variables</a></li><li><a href="testing-tools.html">Testing tools</a></li><li><a href="settings.html">Settings</a></li><li><a href="how-it-works.html">How it works</a></li><li><a href="demo/index.html">Live demo</a></li></ul></nav>
@@ -47,6 +47,6 @@
 <td>A request you made, not the app.</td>
 </tr>
 </tbody>
-</table><nav class="pn" aria-label="Previous and next"><a class="prev" href="getting-started.html"><span>Previous</span>Getting started</a><a class="next" href="request-screen.html"><span>Next</span>The request screen</a></nav><footer>RESTless v0.97.0 · <a href="https://github.com/varnica95/restless">GitHub</a></footer></main>
+</table><nav class="pn" aria-label="Previous and next"><a class="prev" href="getting-started.html"><span>Previous</span>Getting started</a><a class="next" href="request-screen.html"><span>Next</span>The request screen</a></nav><footer>RESTless v0.98.0 · <a href="https://github.com/varnica95/restless">GitHub</a></footer></main>
 <aside class="toc" aria-label="On this page"><b>On this page</b><ul><li><a href="#find-a-call">Find a call</a></li><li><a href="#keep-what-matters">Keep what matters</a></li><li><a href="#read-the-tags">Read the tags</a></li></ul></aside></div>
 <script src="site.js"></script></body></html>
